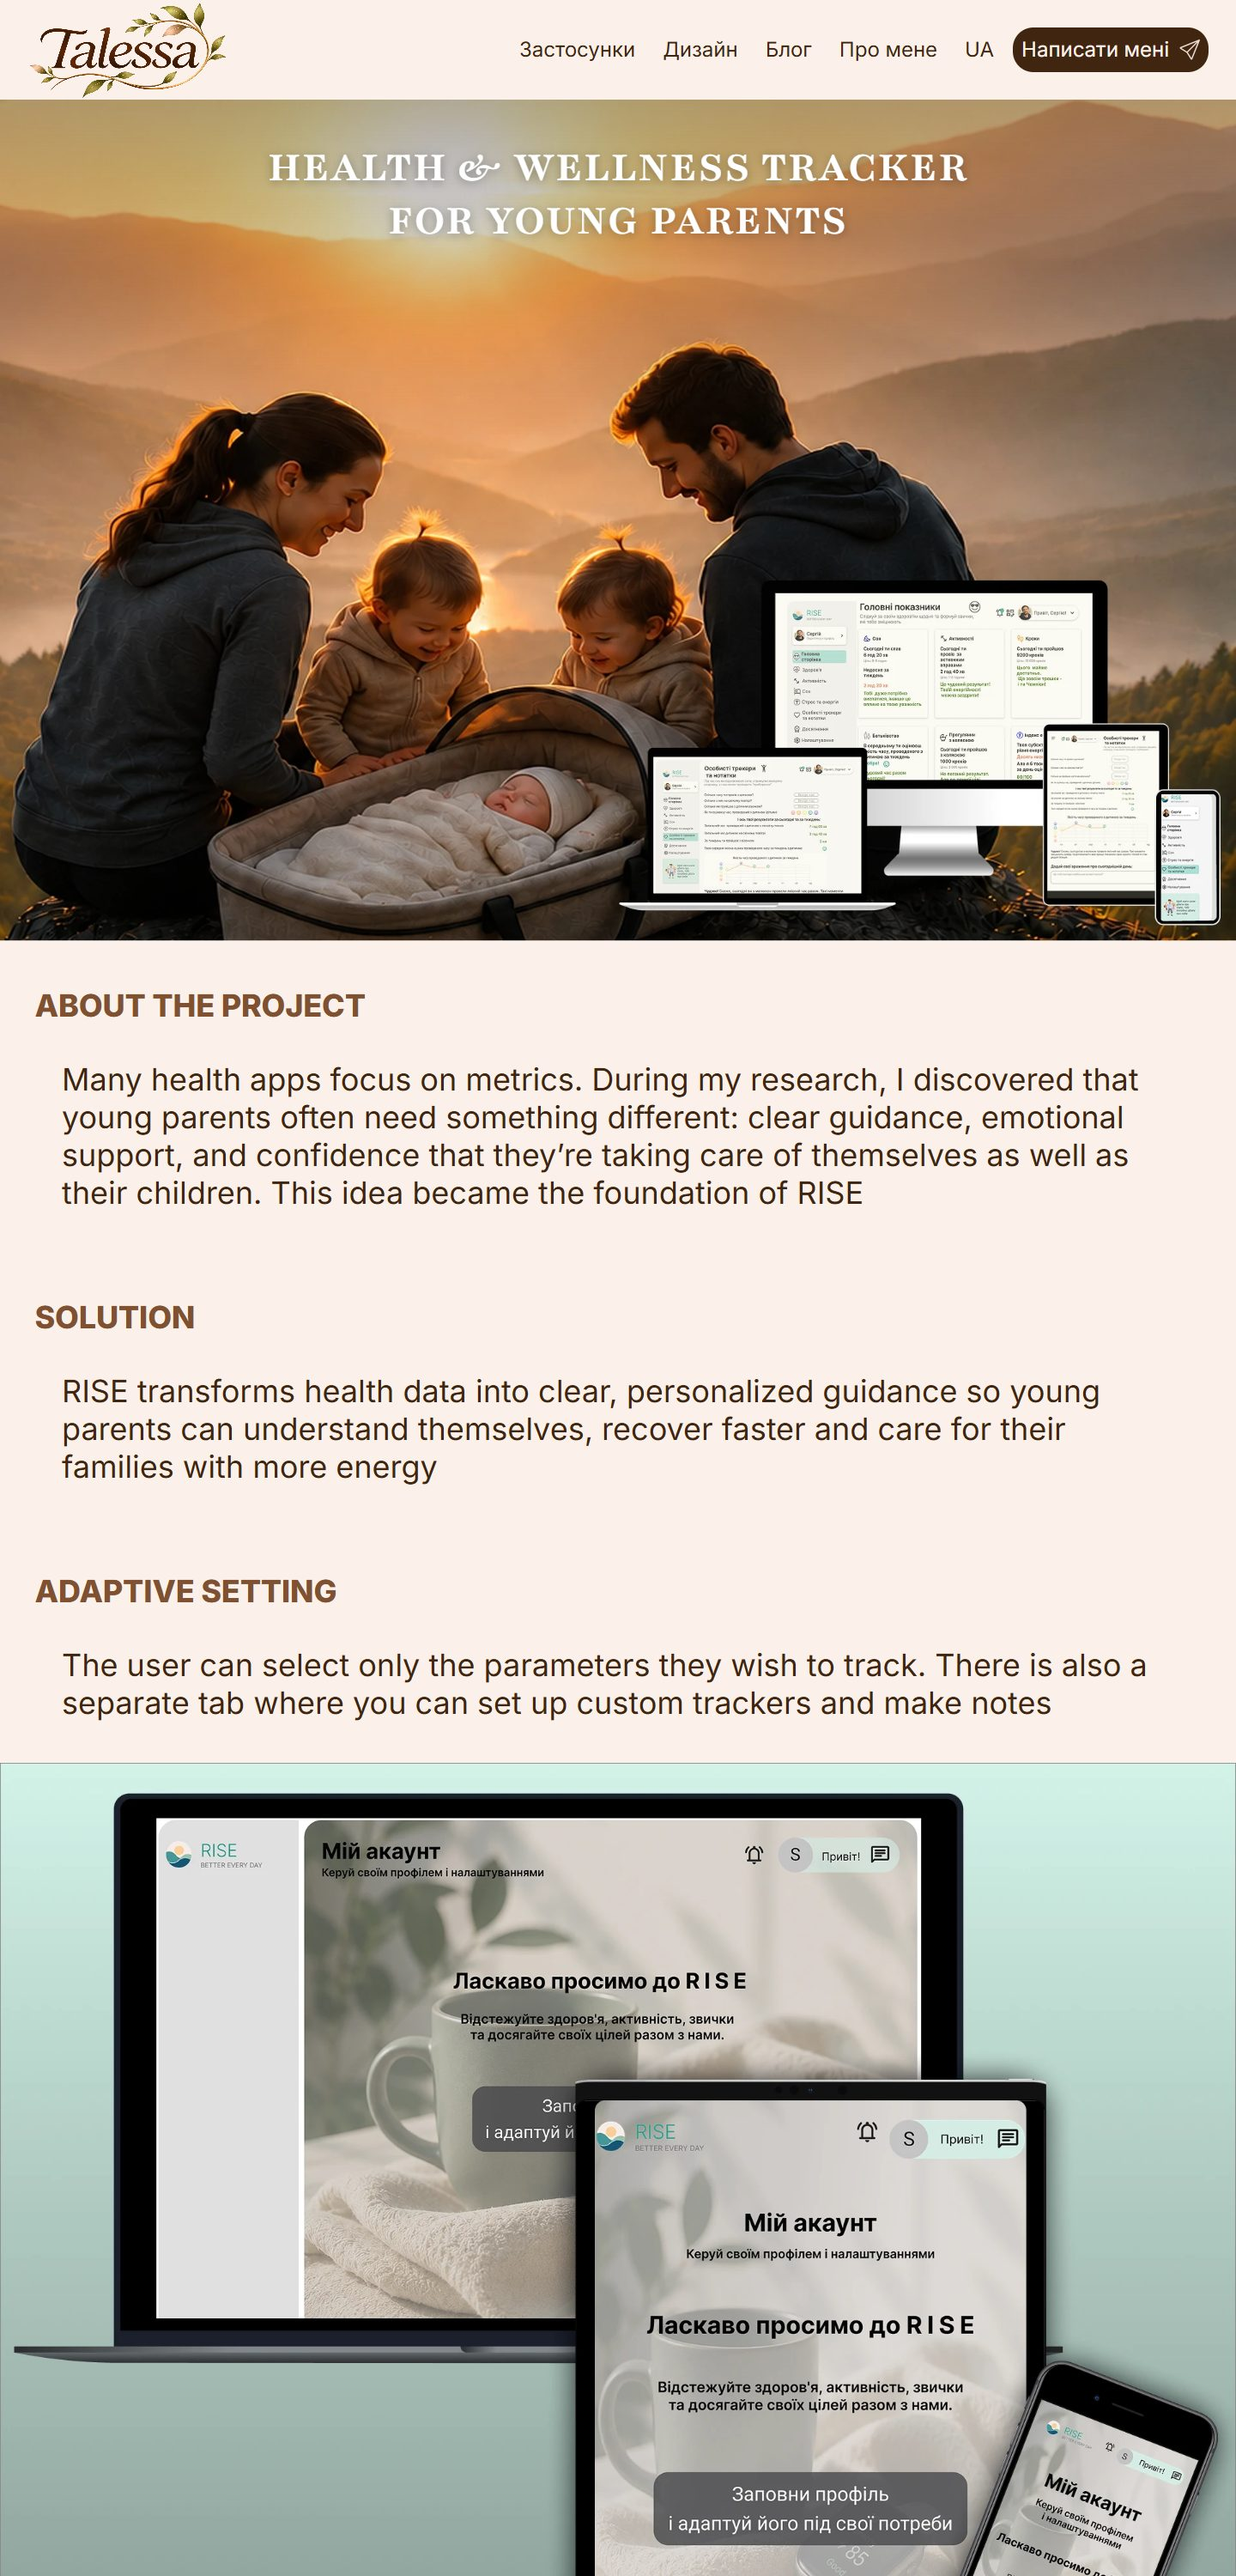
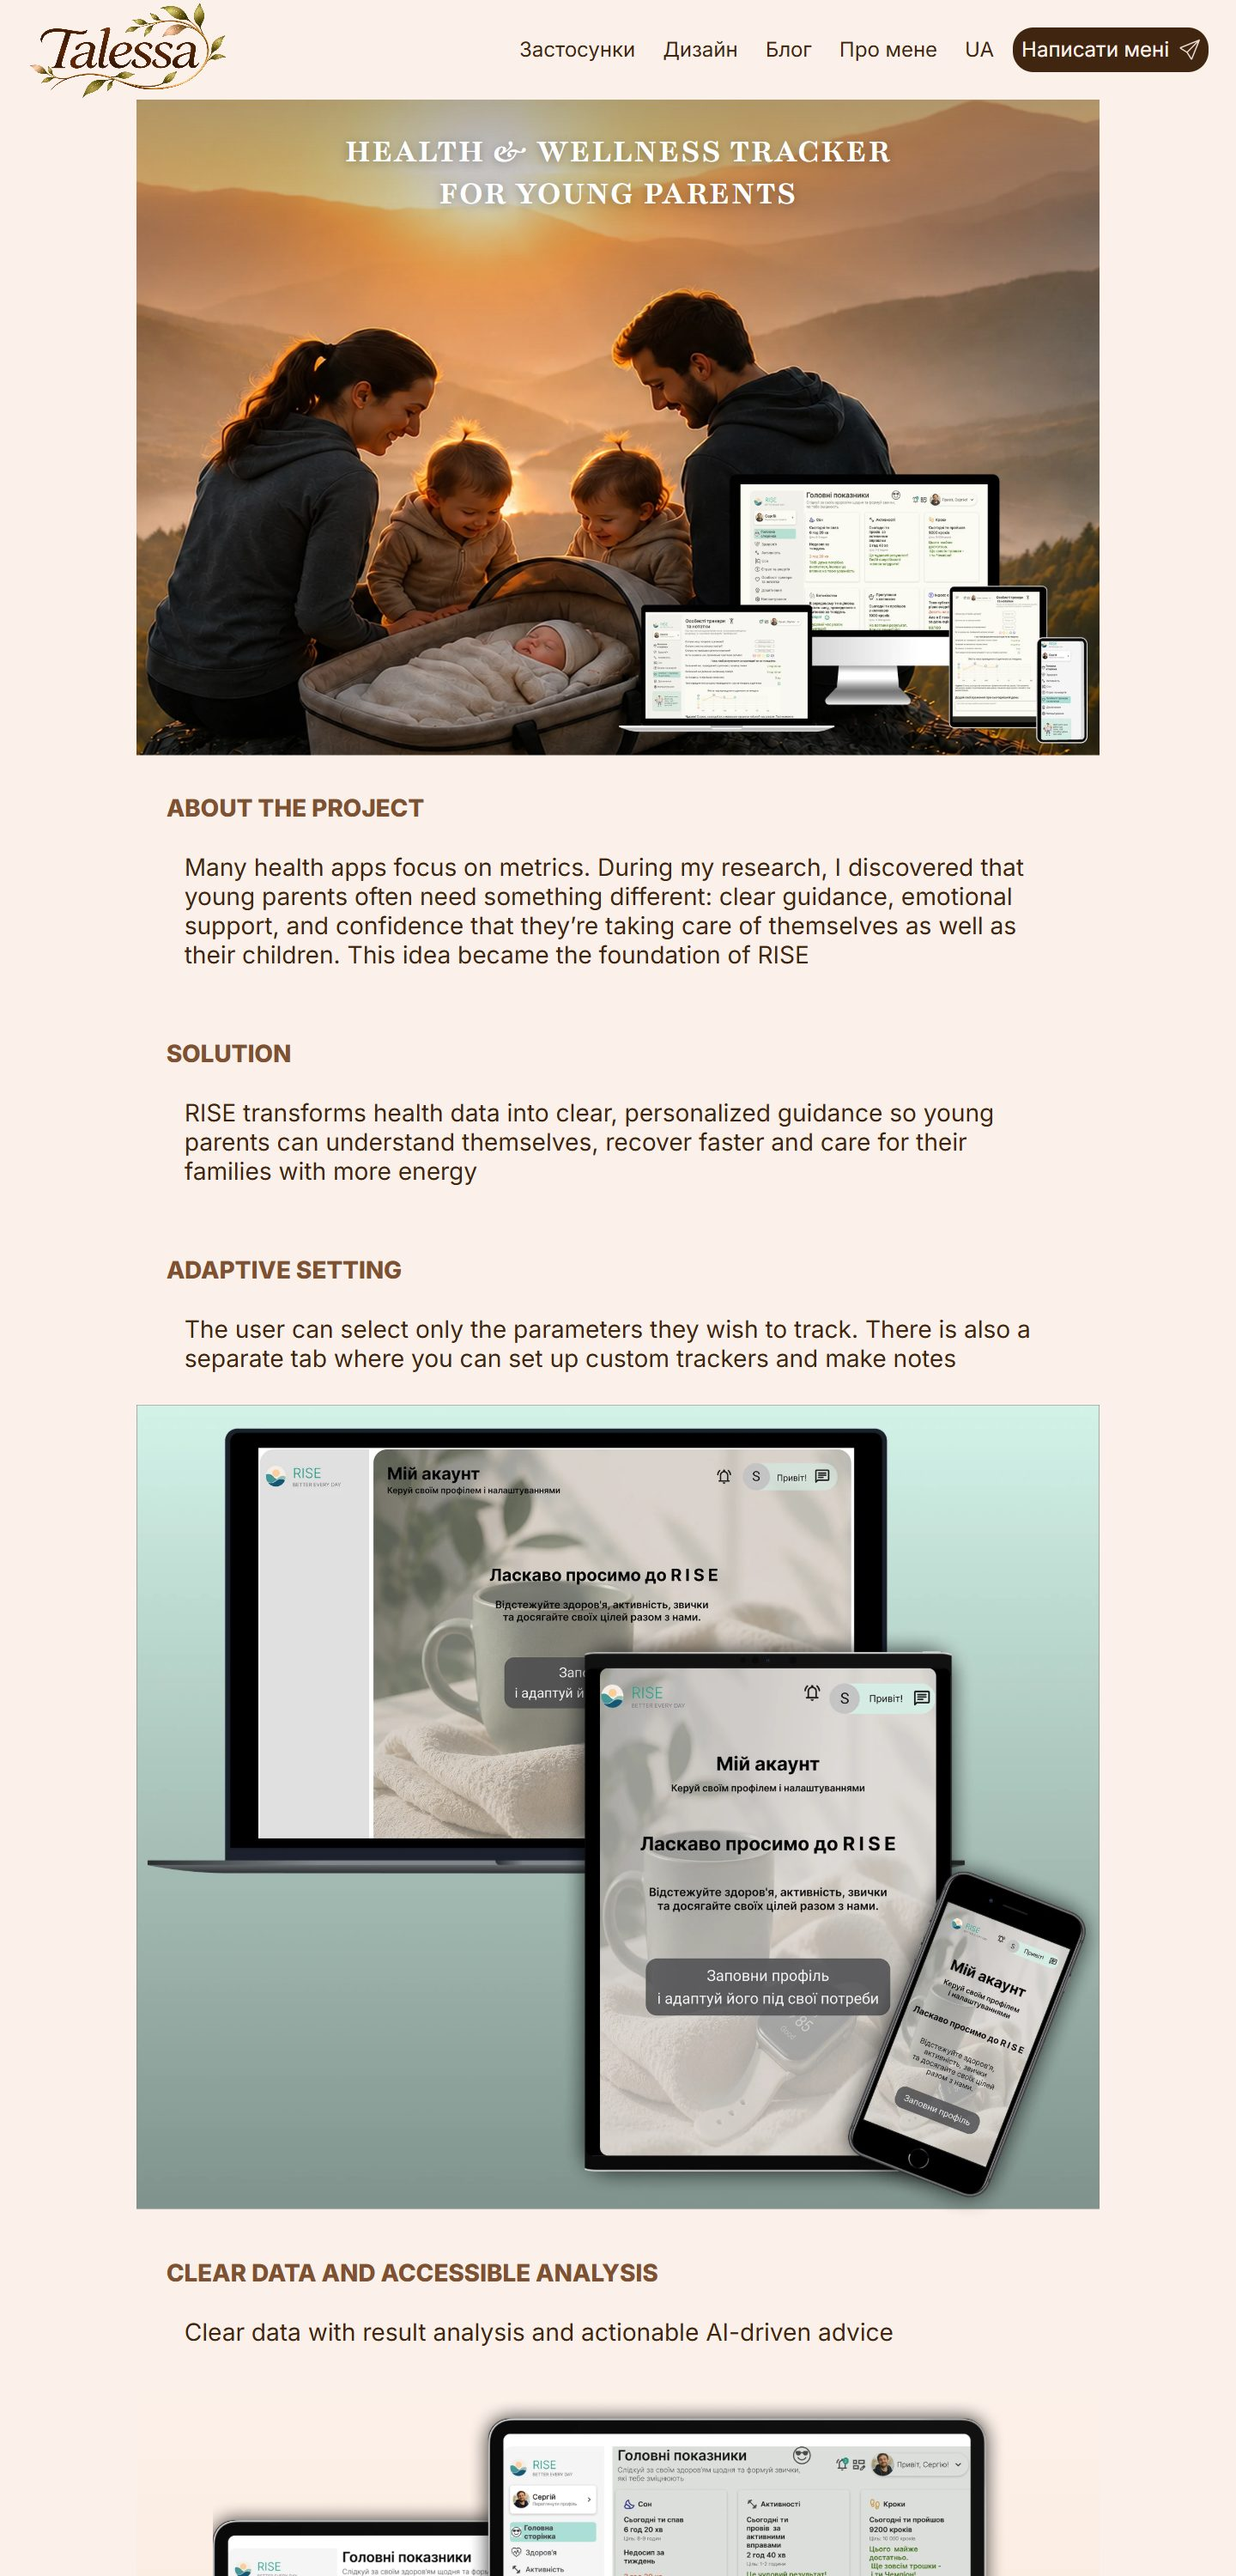
Case pages: content column with side margins (240px at 1920, shrinking linearly to 16px) and everything scaled proportionally with it

diff --git a/src/pages/MyYarn.css b/src/pages/MyYarn.css
@@ -22,6 +22,15 @@
   .legal .header { min-height: 79px; }
 }
 
+/* Page column. At the 1920px artboard the side margins are 240px (content 1440px);
+   on narrower screens the margins shrink linearly down to 16px at 600px and below.
+   Everything inside is sized in cqw (a share of this column's width), so text and
+   pictures shrink together with it. */
+.yarn-wrap {
+  container-type: inline-size;
+  width: min(calc(100% - 2 * clamp(16px, calc(16.97vw - 85.8px), 240px)), 1440px);
+  margin-inline: auto;
+}
 /* ---- Hero ---- */
 .yarn-hero {
   position: relative;
@@ -46,7 +55,7 @@
   flex-direction: column;
   align-items: flex-end;
   gap: 8px;
-  padding: clamp(16px, 3.3vw, 64px) clamp(16px, 1.7vw, 32px);
+  padding: clamp(16px, 3.3cqw, 64px) clamp(16px, 1.7cqw, 32px);
   text-align: right;
   /* Figma: Playfair Bold, line height 120%, letter spacing 5%, opsz 12 / wdth 100 */
   font-family: 'Playfair', Georgia, serif;
@@ -57,13 +66,13 @@
 .yarn-hero__text h1 {
   font-family: inherit;
   font-weight: 700;
-  font-size: clamp(28px, 5vw, 96px); /* 96px at 1920px */
+  font-size: clamp(28px, 5cqw, 96px); /* 96px at 1920px */
   line-height: 1.2;
   letter-spacing: 0.05em;
 }
 .yarn-hero__text p {
   max-width: 64.4%; /* 1236 / 1920 */
-  font-size: clamp(14px, 2.5vw, 48px); /* 48px at 1920px */
+  font-size: clamp(14px, 2.5cqw, 48px); /* 48px at 1920px */
   line-height: 1.2;
   letter-spacing: 0.05em;
   text-wrap: balance; /* no lonely word on the last line */
@@ -116,15 +125,15 @@
 
 /* ---- Content sections ---- */
 .yarn-section {
-  padding: clamp(24px, 3.3vw, 64px) clamp(16px, 1.7vw, 32px);
+  padding: clamp(24px, 3.3cqw, 64px) clamp(16px, 1.7cqw, 32px);
   display: flex;
   flex-direction: column;
-  gap: clamp(16px, 2.5vw, 48px);
+  gap: clamp(16px, 2.5cqw, 48px);
 }
 .yarn-title {
   font-family: var(--font-body);
   font-weight: 800;
-  font-size: clamp(22px, 2.5vw, 48px);
+  font-size: clamp(22px, 2.5cqw, 48px);
   line-height: 1;
   letter-spacing: -0.005em;
   text-transform: uppercase;
@@ -133,9 +142,9 @@
 }
 .yarn-quote,
 .yarn-text {
-  font-size: clamp(16px, 2.5vw, 48px);
+  font-size: clamp(16px, 2.5cqw, 48px);
   line-height: normal;
-  padding: 0 clamp(0px, 3.3vw, 64px);
+  padding: 0 clamp(0px, 3.3cqw, 64px);
 }
 .yarn-quote {
   font-weight: 700;
@@ -148,7 +157,7 @@
 .yarn-features {
   display: flex;
   gap: var(--space-2);
-  padding: clamp(12px, 1.7vw, 32px);
+  padding: clamp(12px, 1.7cqw, 32px);
   background: var(--canvas);
   border: 3px solid var(--text-muted);
 }
@@ -158,24 +167,24 @@
   display: flex;
   flex-direction: column;
   gap: var(--space-4);
-  padding: clamp(12px, 1.7vw, 32px) clamp(8px, 0.8vw, 16px);
+  padding: clamp(12px, 1.7cqw, 32px) clamp(8px, 0.8cqw, 16px);
   border: 3px solid var(--text-muted);
   box-shadow: 8px 8px 8px rgba(0, 0, 0, 0.25);
 }
 .yarn-box--plan { border-color: var(--accent); }
 .yarn-box__head {
-  padding: clamp(8px, 1.5vw, 29px) 16px;
+  padding: clamp(8px, 1.5cqw, 29px) 16px;
   background: var(--case-gold);
   font-family: var(--font-body);
   font-weight: 700;
-  font-size: clamp(18px, 2.5vw, 48px);
+  font-size: clamp(18px, 2.5cqw, 48px);
   line-height: normal;
   color: var(--text);
 }
 .yarn-list {
   margin: 0;
-  padding-left: clamp(28px, 3.75vw, 72px);
-  font-size: clamp(16px, 2.5vw, 48px);
+  padding-left: clamp(28px, 3.75cqw, 72px);
+  font-size: clamp(16px, 2.5cqw, 48px);
   line-height: normal;
 }
 .yarn-list li::marker { font-weight: 800; }
@@ -188,7 +197,7 @@
   display: flex;
   align-items: center;
   justify-content: center;
-  padding: clamp(24px, 4vw, 77px) clamp(16px, 6vw, 120px);
+  padding: clamp(24px, 4cqw, 77px) clamp(16px, 6cqw, 120px);
   overflow: hidden;
 }
 .yarn-end__bg {
@@ -205,7 +214,7 @@
   font-family: 'Playfair', Georgia, serif;
   font-variation-settings: 'opsz' 12, 'wdth' 100;
   font-weight: 900;
-  font-size: clamp(26px, 6.67vw, 128px);
+  font-size: clamp(26px, 6.67cqw, 128px);
   line-height: 1.2;
   text-wrap: balance;
 }
@@ -227,7 +236,7 @@
 }
 /* soft warm band behind the screenshots (canvas -> surface) */
 .health-band {
-  padding: clamp(8px, 2vw, 40px) 0 0;
+  padding: clamp(8px, 2cqw, 40px) 0 0;
   background: linear-gradient(180deg, var(--canvas) 0%, var(--surface) 100%);
 }
 .yarn-hero--health { aspect-ratio: 1920 / 1306; }
@@ -239,7 +248,7 @@
   text-shadow: 0 2px 12px rgba(0, 0, 0, 0.35);
 }
 .yarn-hero__text--center h1 {
-  font-size: clamp(22px, 3.6vw, 70px);
+  font-size: clamp(22px, 3.6cqw, 70px);
   letter-spacing: 0.04em;
 }
 .yarn-hero__devices {

diff --git a/src/pages/Health.tsx b/src/pages/Health.tsx
@@ -15,6 +15,7 @@ export default function Health() {
     <div className="yarn yarn--health" lang="en">
       <Header />
 
+      <div className="yarn-wrap">
       <section className="yarn-hero yarn-hero--health">
         <img className="yarn-hero__bg" src={hero} alt="RISE on laptop, tablet and phone, with a young family at sunrise" />
         <div className="yarn-hero__veil" />
@@ -96,6 +97,7 @@ export default function Health() {
           raise happier families
         </p>
       </section>
+      </div>
 
       <Footer />
     </div>

diff --git a/src/pages/MyYarn.tsx b/src/pages/MyYarn.tsx
@@ -42,6 +42,7 @@ export default function MyYarn() {
     <div className="yarn">
       <Header />
 
+      <div className="yarn-wrap">
       <section className="yarn-hero">
         <img className="yarn-hero__bg" src={lang === 'uk' ? titleBg : titleBgEn} alt="" />
         <div className="yarn-hero__veil" />
@@ -138,6 +139,7 @@ export default function MyYarn() {
           ))}
         </p>
       </section>
+      </div>
 
       <Footer />
     </div>
